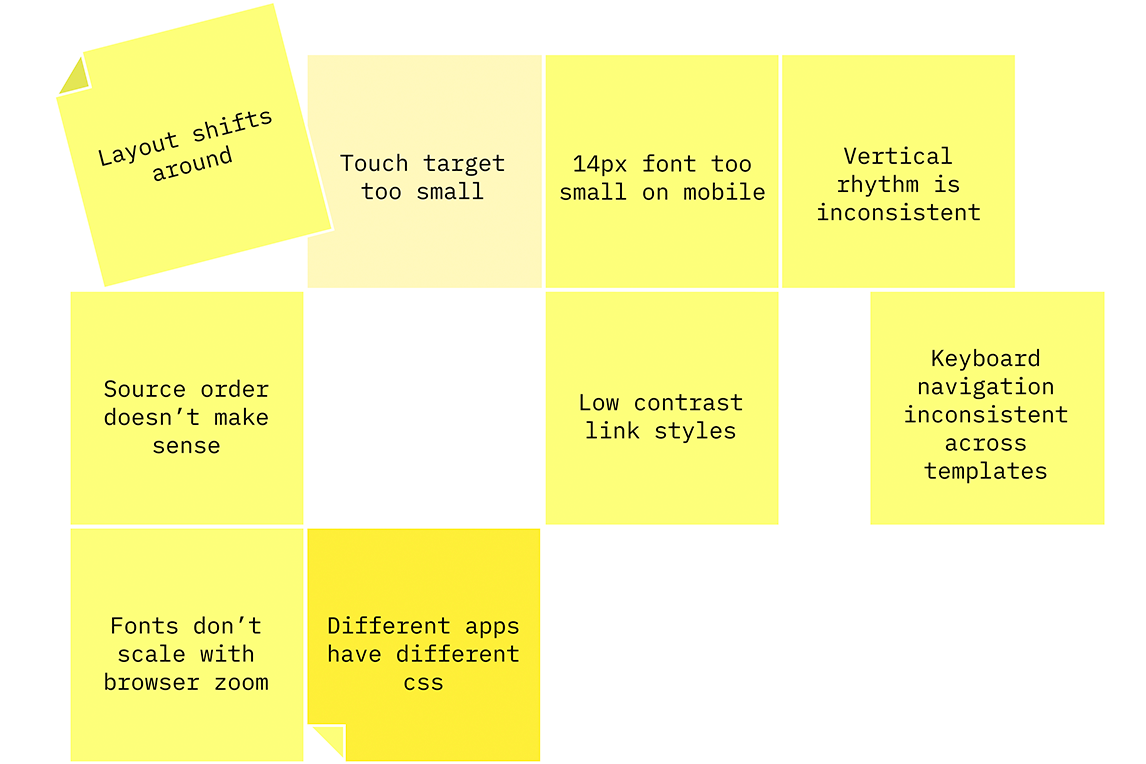
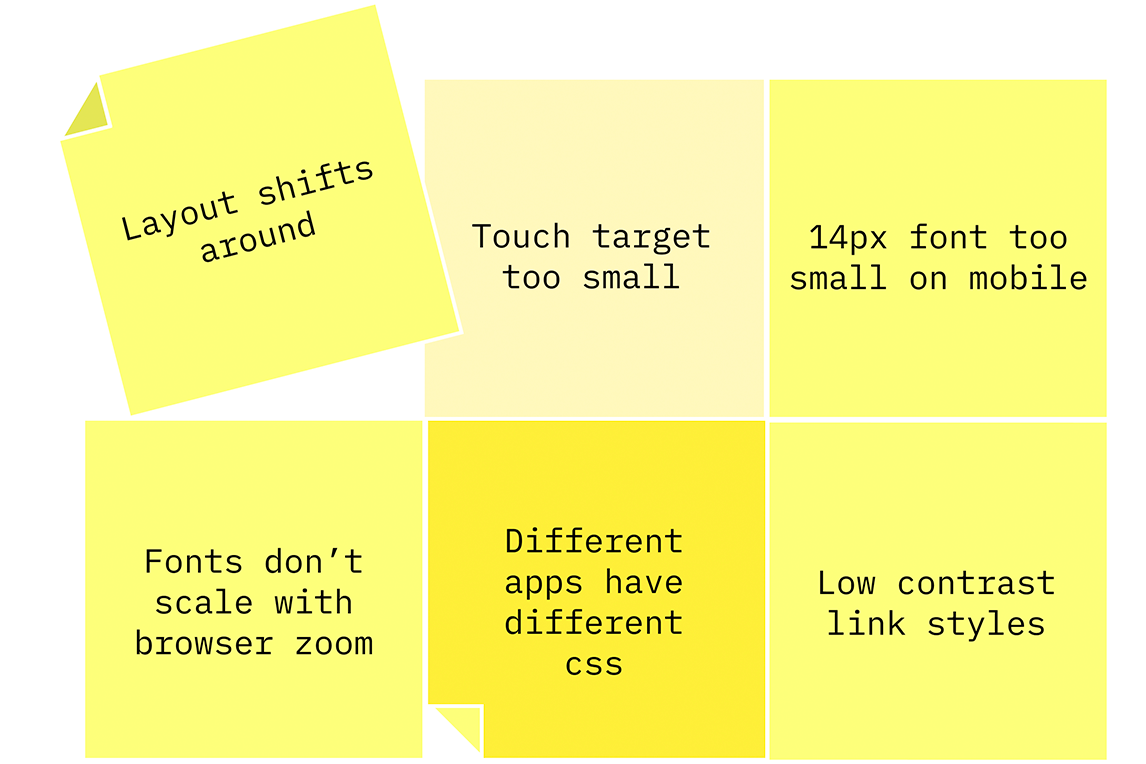
More repsonsive images, repsonsive gallery, fixed the footer

diff --git a/assets/styles.css b/assets/styles.css
@@ -103,7 +103,7 @@ footer {
   padding-top: var(--padding-5);
 }
 
-footer p {
+.site-footer p {
   font-size: var(--small);
   padding-bottom: 0px;
 }
@@ -558,6 +558,7 @@ ol {
   grid-column: 7/ span 6;
 }
 
+
 /* Responsive: 320 - 479px / 480 - 768px / 769px /  */
 
 
@@ -626,9 +627,22 @@ ol {
     display: grid;
     grid-column: 8 / span 5 ;
   }
-  footer p {
+  .site-footer p {
     font-size: var(--small);
     padding-bottom: 0px;
+  }
+  img {
+    padding-bottom: var(--padding-2);
+  }
+
+  .right-half, .left-half, .right-big, .left-big  {
+    grid-column: 1/ span 12;
+  }
+  .right-small {
+    grid-column: 4/ span 6;
+  } 
+  .left-small {
+    grid-column: 4/ span 6;
   }
 }
 
@@ -658,10 +672,14 @@ ol {
     display: grid;
     grid-column: 8 / span 5 ;
   }
-  footer p {
+  .site-footer p {
     font-size: var(--small);
     padding-bottom: 0px;
   }
+}
+
+img {
+  padding-bottom: var(--padding-2);
 }
 
 .desktop-img {

diff --git a/layouts/base.html b/layouts/base.html
@@ -28,7 +28,7 @@
       </main> 
     </div>
   </body>
-  <footer>
+  <footer class="site-footer">
     <div class="grid">
       <div class="left">
         <p>Made by Mia, 2023</p>

diff --git a/pages/template.md b/pages/template.md
@@ -61,11 +61,11 @@ layout: base.html
   </picture> 
 
   <picture class="right-alt">
-    <img src="/assets/images/personas-alt.png" alt="doot doot">
+    <source media="(min-width: 800px)" srcset="/assets/images/personas.png">
+    <source media="(max-width: 400px)" srcset="/assets/images/personas-mob.png">
+    <img src="/assets/images/personas.png" alt="doot doot">
   </picture> 
 
-   <img  class="right-alt" src="/assets/images/personas-alt.png"
-    alt="doot doot"> 
    <figcaption class="right">Image of post it notes with A11y stuff] We used user profiles to help us review the templates for accessibility issues. We also tested on a range of devices, which gave us much-needed insight into how users of older technology experience the site.</figcaption>
 </figure>   
 
